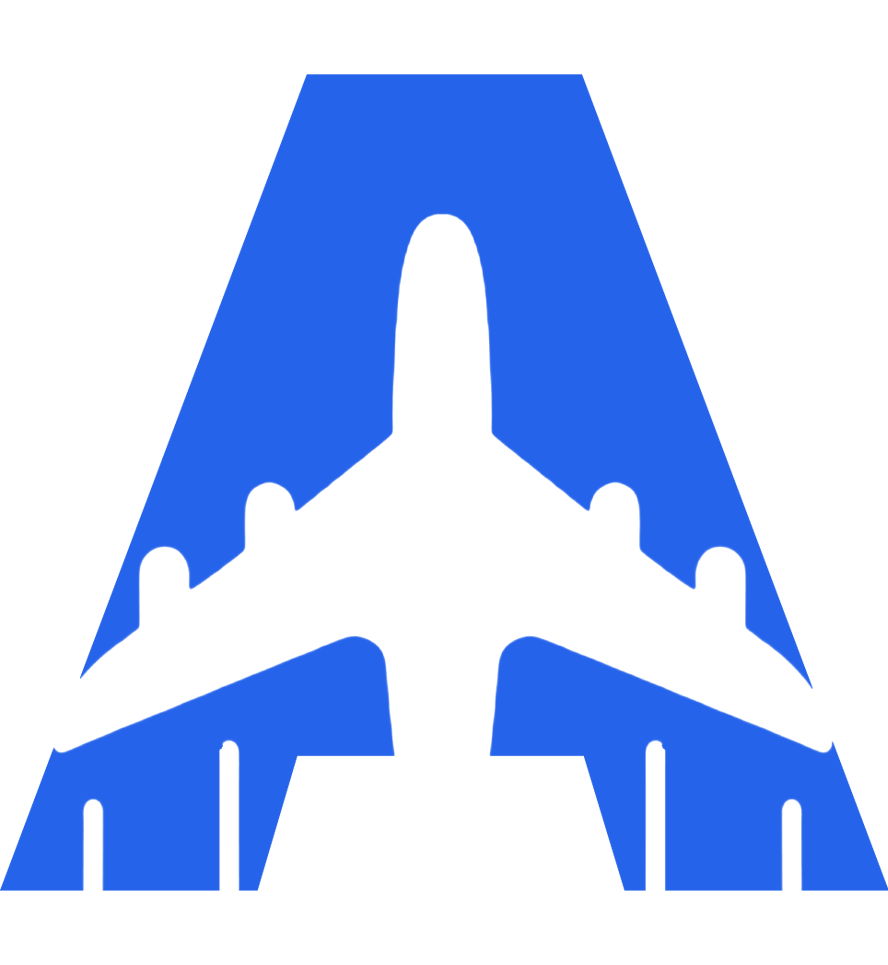
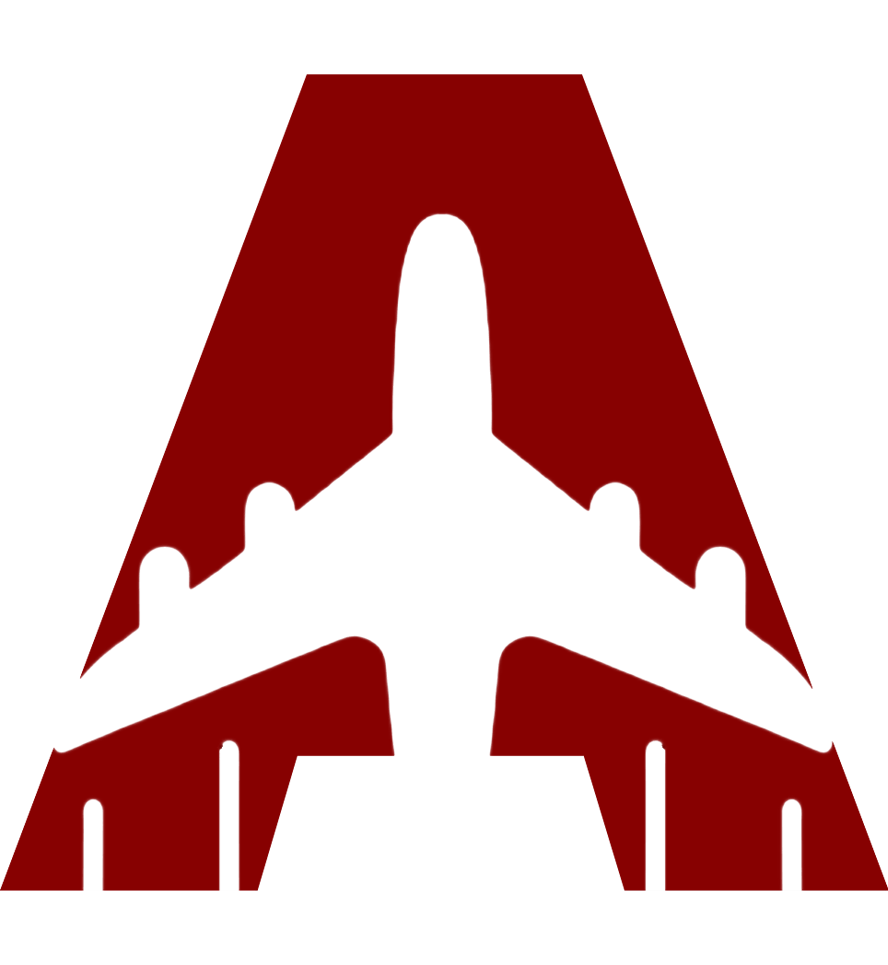
Restyle branding with updated primary palette

diff --git a/src/Host/OperationsSystem.Blazor/OperationsSystem.Blazor.Client/Layout/MainLayout.razor.css b/src/Host/OperationsSystem.Blazor/OperationsSystem.Blazor.Client/Layout/MainLayout.razor.css
@@ -20,9 +20,10 @@
     flex-direction: column;
     gap: var(--os-space-2);
     padding: var(--os-space-5) var(--os-space-4);
-    background: linear-gradient(180deg, var(--os-color-sidebar) 0%, var(--os-color-sidebar-accent) 100%);
-    color: var(--os-color-text-inverse);
-    border-inline-end: 1px solid rgba(255, 255, 255, 0.06);
+    background: linear-gradient(188deg, var(--os-color-sidebar) 0%, #ffffff 46%, var(--os-color-sidebar-accent) 100%);
+    color: var(--os-color-text);
+    border-inline-end: 1px solid var(--os-color-border);
+    box-shadow: inset -1px 0 0 rgba(255, 255, 255, 0.7), 8px 0 32px -18px rgba(16, 23, 41, 0.22);
     overflow-x: hidden;
     overflow-y: auto;
     z-index: 50;
@@ -42,8 +43,9 @@
     height: 2.5rem;
     place-items: center;
     border-radius: var(--os-radius-md);
-    background: #ffffff;
-    box-shadow: 0 6px 16px rgba(8, 12, 22, 0.45), inset 0 0 0 1px rgba(255, 255, 255, 0.6);
+    background: linear-gradient(180deg, #ffffff 0%, #f4f7fb 100%);
+    border: 1px solid var(--os-color-border);
+    box-shadow: 0 2px 8px rgba(16, 23, 41, 0.08), inset 0 1px 0 rgba(255, 255, 255, 0.9);
     flex-shrink: 0;
 }
 
@@ -62,7 +64,7 @@
 
 .os-brand-text strong {
     font-size: var(--os-text-base);
-    color: #fff;
+    color: var(--os-color-text);
     white-space: nowrap;
     overflow: hidden;
     text-overflow: ellipsis;
@@ -102,15 +104,17 @@
     color: var(--os-color-sidebar-text);
     text-decoration: none;
     padding: 0.625rem var(--os-space-3);
+    border: 1px solid transparent;
     border-radius: var(--os-radius-sm);
     font-size: var(--os-text-sm);
     font-weight: 500;
     position: relative;
     white-space: nowrap;
-    transition: background var(--os-transition), color var(--os-transition);
+    transition: background var(--os-transition), border-color var(--os-transition), box-shadow var(--os-transition), color var(--os-transition);
 }
 
-.os-nav ::deep .os-nav-link .rz-icon {
+.os-nav ::deep .os-nav-link .rz-icon,
+.os-nav ::deep .os-nav-link .rzi {
     width: 1.25rem;
     max-width: 1.25rem;
     font-size: 1.25rem;
@@ -122,22 +126,28 @@
 }
 
 .os-nav ::deep .os-nav-link:hover {
-    color: #fff;
-    background: rgba(255, 255, 255, 0.06);
+    color: var(--os-color-text);
+    background: rgba(255, 255, 255, 0.78);
+    border-color: rgba(203, 213, 225, 0.75);
+    box-shadow: 0 1px 3px rgba(16, 23, 41, 0.05);
 }
 
-.os-nav ::deep .os-nav-link:hover .rz-icon {
-    color: var(--os-color-sidebar-text);
+.os-nav ::deep .os-nav-link:hover .rz-icon,
+.os-nav ::deep .os-nav-link:hover .rzi {
+    color: var(--os-color-primary);
 }
 
 .os-nav ::deep .os-nav-link.active {
     color: var(--os-color-sidebar-active-text);
     background: var(--os-color-sidebar-active);
+    border-color: rgba(232, 198, 203, 0.8);
+    box-shadow: 0 2px 8px rgba(var(--os-color-primary-rgb), 0.08), inset 0 1px 0 rgba(255, 255, 255, 0.9);
     font-weight: 600;
 }
 
-.os-nav ::deep .os-nav-link.active .rz-icon {
-    color: #fff;
+.os-nav ::deep .os-nav-link.active .rz-icon,
+.os-nav ::deep .os-nav-link.active .rzi {
+    color: var(--os-color-primary);
 }
 
 .os-nav ::deep .os-nav-link.active::before {
@@ -161,7 +171,8 @@
     align-items: center;
     padding: 0.2rem 0.6rem;
     border-radius: var(--os-radius-pill);
-    background: rgba(255, 255, 255, 0.06);
+    background: rgba(255, 255, 255, 0.72);
+    border: 1px solid var(--os-color-border);
     color: var(--os-color-sidebar-muted);
     font-size: var(--os-text-xs);
     font-weight: 600;
@@ -299,7 +310,7 @@
     width: 2rem;
     height: 2rem;
     border-radius: 50%;
-    background: linear-gradient(135deg, var(--os-color-primary), var(--os-color-primary-strong));
+    background: var(--os-color-primary-gradient);
     color: var(--os-color-primary-contrast);
     font-size: var(--os-text-xs);
     font-weight: 700;

diff --git a/src/Host/OperationsSystem.Blazor/OperationsSystem.Blazor/wwwroot/tokens.css b/src/Host/OperationsSystem.Blazor/OperationsSystem.Blazor/wwwroot/tokens.css
@@ -13,19 +13,22 @@
     --os-color-text-inverse: #e8eefb;
 
     /* Brand */
-    --os-color-primary: #2563eb;
-    --os-color-primary-strong: #1d4ed8;
-    --os-color-primary-soft: #eaf1ff;
-    --os-color-primary-soft-border: #cdddff;
+    --os-color-primary: #722f37;
+    --os-color-primary-rgb: 114, 47, 55;
+    --os-color-primary-strong: #4a1f26;
+    --os-color-primary-accent: #9a3240;
+    --os-color-primary-gradient: linear-gradient(145deg, #722f37 0%, #9a3240 52%, #722f37 100%);
+    --os-color-primary-soft: #f8eaec;
+    --os-color-primary-soft-border: #e8c6cb;
     --os-color-primary-contrast: #ffffff;
 
     /* Sidebar */
-    --os-color-sidebar: #0b1222;
-    --os-color-sidebar-accent: #131d34;
-    --os-color-sidebar-text: #aeb9cc;
-    --os-color-sidebar-muted: #6f7c93;
-    --os-color-sidebar-active: rgba(37, 99, 235, 0.18);
-    --os-color-sidebar-active-text: #ffffff;
+    --os-color-sidebar: #f8fafc;
+    --os-color-sidebar-accent: #f1f4f8;
+    --os-color-sidebar-text: #364152;
+    --os-color-sidebar-muted: #778293;
+    --os-color-sidebar-active: linear-gradient(138deg, #ffffff 0%, #f8eaec 100%);
+    --os-color-sidebar-active-text: var(--os-color-primary-strong);
 
     /* Status */
     --os-color-success: #15803d;
@@ -68,7 +71,7 @@
     --os-shadow-sm: 0 1px 2px rgba(16, 23, 41, 0.06), 0 1px 3px rgba(16, 23, 41, 0.04);
     --os-shadow-md: 0 4px 12px rgba(16, 23, 41, 0.08), 0 2px 4px rgba(16, 23, 41, 0.04);
     --os-shadow-lg: 0 18px 40px rgba(16, 23, 41, 0.14), 0 6px 14px rgba(16, 23, 41, 0.08);
-    --os-ring: 0 0 0 3px rgba(37, 99, 235, 0.28);
+    --os-ring: 0 0 0 3px rgba(var(--os-color-primary-rgb), 0.28);
 
     /* Motion */
     --os-transition: 160ms cubic-bezier(0.4, 0, 0.2, 1);

diff --git a/src/Host/OperationsSystem.Blazor/OperationsSystem.Blazor.Client/Shared/AuthLayout.razor.css b/src/Host/OperationsSystem.Blazor/OperationsSystem.Blazor.Client/Shared/AuthLayout.razor.css
@@ -15,7 +15,7 @@
     padding: var(--os-space-8) var(--os-space-7);
     color: var(--os-color-text-inverse);
     background:
-        radial-gradient(120% 90% at 0% 0%, rgba(37, 99, 235, 0.45) 0%, rgba(37, 99, 235, 0) 55%),
+        radial-gradient(120% 90% at 0% 0%, rgba(var(--os-color-primary-rgb), 0.45) 0%, rgba(var(--os-color-primary-rgb), 0) 55%),
         linear-gradient(160deg, var(--os-color-sidebar) 0%, var(--os-color-sidebar-accent) 100%);
     overflow: hidden;
 }
@@ -28,7 +28,7 @@
     width: 28rem;
     height: 28rem;
     border-radius: 50%;
-    background: radial-gradient(circle, rgba(37, 99, 235, 0.35) 0%, rgba(37, 99, 235, 0) 70%);
+    background: radial-gradient(circle, rgba(var(--os-color-primary-rgb), 0.35) 0%, rgba(var(--os-color-primary-rgb), 0) 70%);
     pointer-events: none;
 }
 

diff --git a/src/Host/OperationsSystem.Blazor/OperationsSystem.Blazor.Client/Features/Customers/Pages/CustomersList.razor.css b/src/Host/OperationsSystem.Blazor/OperationsSystem.Blazor.Client/Features/Customers/Pages/CustomersList.razor.css
@@ -13,7 +13,7 @@
     flex-shrink: 0;
     overflow: hidden;
     border-radius: 50%;
-    background: linear-gradient(135deg, var(--os-color-primary), var(--os-color-primary-strong));
+    background: var(--os-color-primary-gradient);
     color: var(--os-color-primary-contrast);
     font-size: var(--os-text-xs);
     font-weight: 700;

diff --git a/src/Host/OperationsSystem.Blazor/OperationsSystem.Blazor.Client/Features/Operations/Pages/FlightsCalendarPage.razor.css b/src/Host/OperationsSystem.Blazor/OperationsSystem.Blazor.Client/Features/Operations/Pages/FlightsCalendarPage.razor.css
@@ -563,7 +563,7 @@
     display: inline-block;
 }
 
-.ofc-dot-scheduled { background: var(--rz-primary, #2563eb); }
+.ofc-dot-scheduled { background: var(--rz-primary, var(--os-color-primary)); }
 .ofc-dot-inprogress { background: var(--rz-warning, #f59e0b); }
 .ofc-dot-completed { background: var(--rz-success, #16a34a); }
 .ofc-dot-canceled { background: var(--rz-danger, #dc2626); }

diff --git a/src/Host/OperationsSystem.Blazor/OperationsSystem.Blazor.Client/Features/Users/Pages/UsersList.razor.css b/src/Host/OperationsSystem.Blazor/OperationsSystem.Blazor.Client/Features/Users/Pages/UsersList.razor.css
@@ -12,7 +12,7 @@
     height: 2.25rem;
     flex-shrink: 0;
     border-radius: 50%;
-    background: linear-gradient(135deg, var(--os-color-primary), var(--os-color-primary-strong));
+    background: var(--os-color-primary-gradient);
     color: var(--os-color-primary-contrast);
     font-size: var(--os-text-xs);
     font-weight: 700;

diff --git a/src/Host/OperationsSystem.Blazor/OperationsSystem.Blazor.Client/Pages/Account.razor.css b/src/Host/OperationsSystem.Blazor/OperationsSystem.Blazor.Client/Pages/Account.razor.css
@@ -42,7 +42,7 @@
     flex-shrink: 0;
     border: 0.25rem solid var(--os-color-surface);
     border-radius: 50%;
-    background: linear-gradient(135deg, var(--os-color-primary), var(--os-color-primary-strong));
+    background: var(--os-color-primary-gradient);
     box-shadow: 0 0 0 1px var(--os-color-primary-soft-border);
     color: var(--os-color-primary-contrast);
     font-size: var(--os-text-xl);